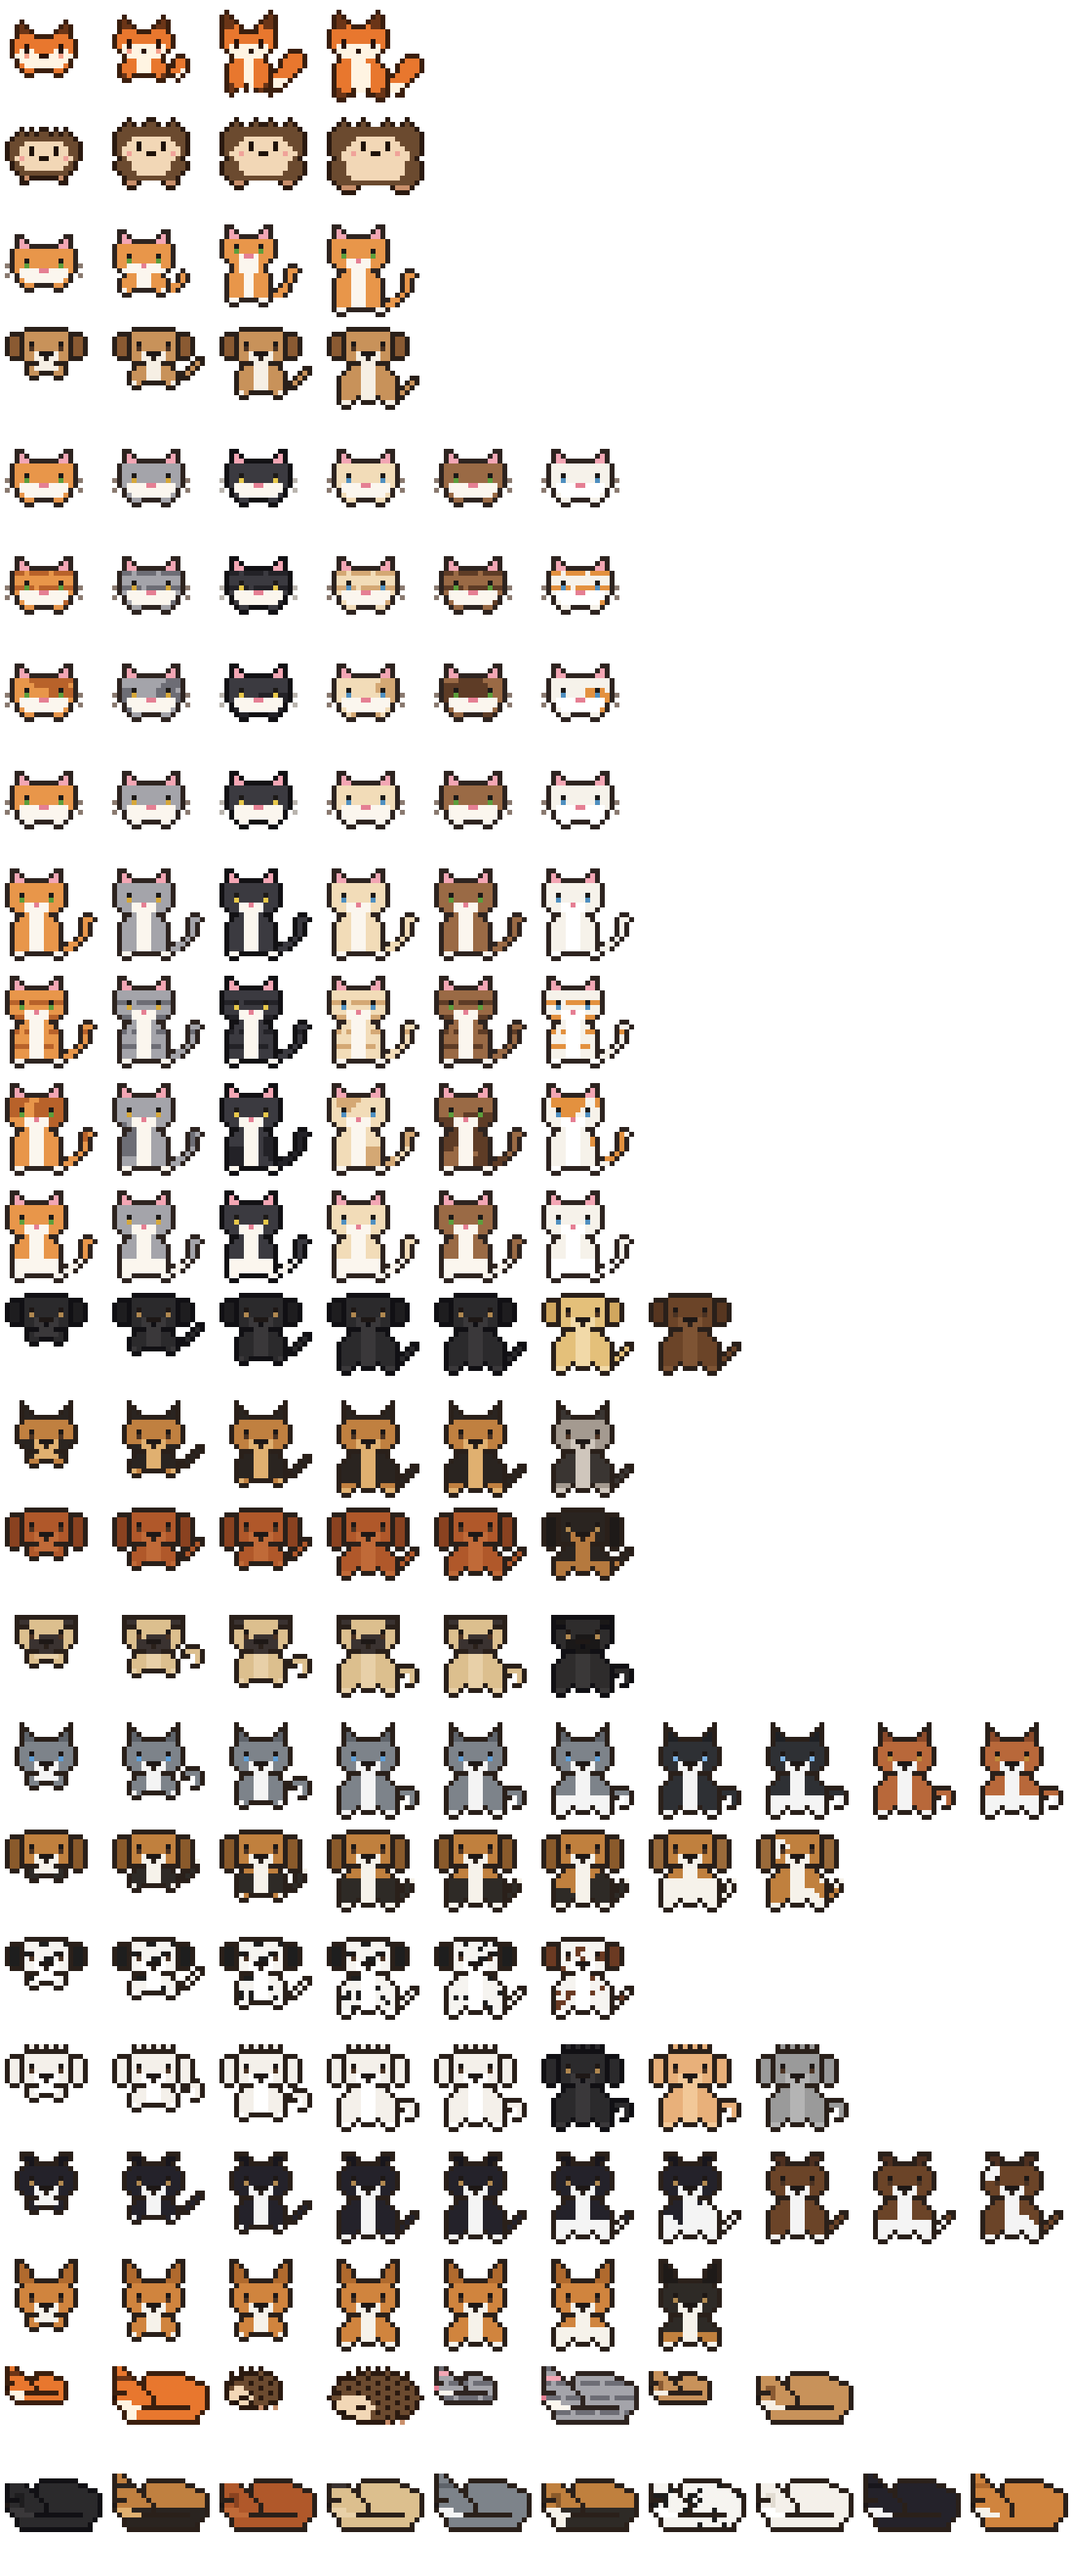
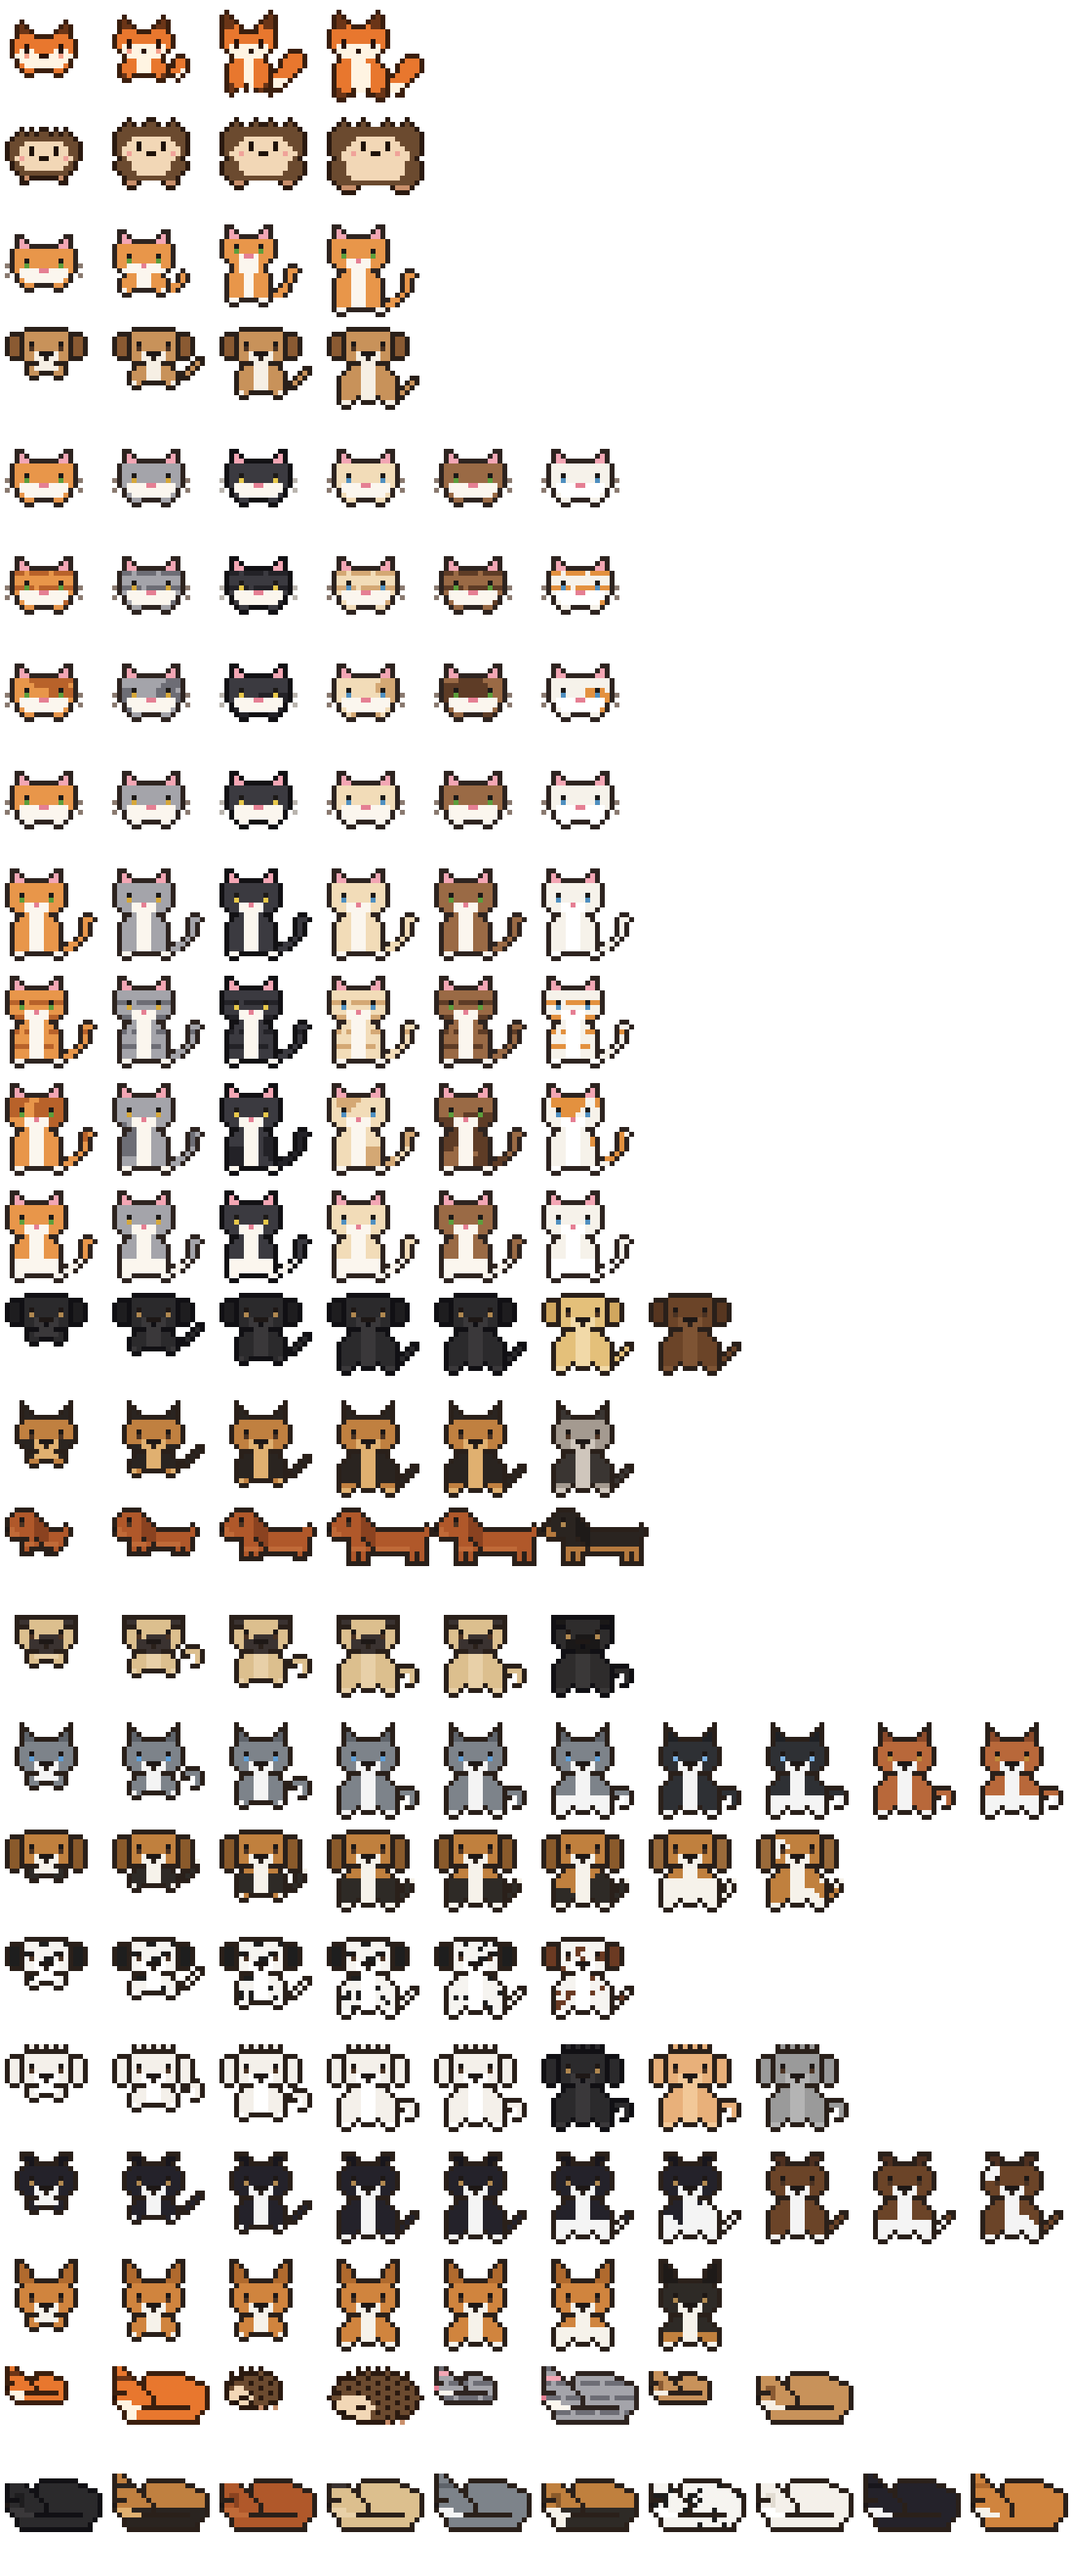
Größeres Layout, kompaktes HUD (Sättigung links, Laune rechts), Dackel in Seitenansicht, Ball für Hund, Napf weiter rechts

Changed region(s): [[0.0, 0.5625, 0.6212, 0.625]]

diff --git a/src/render/scene.ts b/src/render/scene.ts
@@ -38,7 +38,7 @@ const BASKET_FRONT = [
 ];
 
 // Futternapf neben der Pflanze
-const BOWL_X = 12;
+const BOWL_X = 15;
 const BOWL_Y = FLOOR_Y + 2;
 const BOWL = ['.ooooooo.', 'ohhhhhhho', '.obbbbbo.', '..ooooo..'];
 const FOOD_LEVELS = [
@@ -82,6 +82,10 @@ const POST = [
   'ooooooooooo',
 ];
 const POST_COLORS: ColorMap = { o: '#4a3a30', m: '#b9a58a', r: '#d8c08e', R: '#b89a62', l: '#5a4a40', y: '#e2384d' };
+
+// Tennisball (Hund)
+const BALL = ['.ooo.', 'oyyso', 'oysyo', 'osyyo', '.ooo.'];
+const BALL_COLORS: ColorMap = { o: '#5a6a1a', y: '#d8e84a', s: '#f6f6e4' };
 
 // Grasbüschel (Fuchs) und Herbstlaub (Igel)
 const TUFT = ['l.l.l', '.lgl.', 'ggggg'];
@@ -227,38 +231,48 @@ export class Scene {
     this.drawHud(p, t);
   }
 
-  /** HUD oben im Bild wie in einem Videospiel: Sättigung, Laune, Warnsymbole */
+  /** HUD oben im Bild wie in einem Videospiel: Sättigung links, Laune rechts, Warnsymbole in der Mitte */
   private drawHud(p: Pet, t: number) {
     const ctx = this.ctx;
-    ctx.fillStyle = 'rgba(20,16,12,0.45)';
-    ctx.fillRect(0, 0, SCREEN_W, 9);
+    const BAR_W = 13;
     if (p.stage !== 'egg') {
-      drawMap(ctx, HUD_FOOD, HUD_ICON_COLORS, 1, 2);
-      this.drawBar(7, 2, hearts(p.hunger), '#f2a23a', t);
-      drawMap(ctx, HUD_SMILE, HUD_ICON_COLORS, 26, 2);
-      this.drawBar(32, 2, hearts(p.happy), '#f2d64b', t);
+      ctx.fillStyle = 'rgba(20,16,12,0.4)';
+      ctx.fillRect(0, 0, 20, 7);
+      ctx.fillRect(SCREEN_W - 20, 0, 20, 7);
+      drawMap(ctx, HUD_FOOD, HUD_ICON_COLORS, 1, 1);
+      this.drawBar(6, 1, hearts(p.hunger), '#f2a23a', t);
+      this.drawBar(SCREEN_W - 1 - BAR_W, 1, hearts(p.happy), '#f2d64b', t);
+      drawMap(ctx, HUD_SMILE, HUD_ICON_COLORS, SCREEN_W - 2 - BAR_W - 5, 1);
     }
-    // rechts: krank / ruft
-    let ix = SCREEN_W - 3;
-    if (Object.keys(p.calls).length > 0 && Math.floor(t / 500) % 2 === 0) {
-      ix -= 2;
-      drawMap(ctx, ICONS.bang.map, ICONS.bang.colors, ix, 2);
-    } else if (Object.keys(p.calls).length > 0) ix -= 2;
-    if (p.sick) drawMap(ctx, ICONS.skull.map, ICONS.skull.colors, ix - 7, 2);
+    // Mitte: krank / ruft
+    const calling = Object.keys(p.calls).length > 0;
+    const icons: { map: string[]; colors: ColorMap }[] = [];
+    if (p.sick) icons.push(ICONS.skull);
+    if (calling && Math.floor(t / 500) % 2 === 0) icons.push(ICONS.bang);
+    const width = (p.sick ? 5 : 0) + (calling ? 2 : 0) + (p.sick && calling ? 2 : 0);
+    let x = Math.round(SCREEN_W / 2 - width / 2);
+    if (width) {
+      ctx.fillStyle = 'rgba(20,16,12,0.4)';
+      ctx.fillRect(x - 2, 0, width + 4, 7);
+    }
+    for (const icon of icons) {
+      drawMap(ctx, icon.map, icon.colors, x, 1);
+      x += icon.map[0].length + 2;
+    }
   }
 
-  /** Leiste mit 4 Segmenten; bei 0–1 Segment rot blinkend */
+  /** schmale Leiste mit 4 Segmenten; bei 0–1 Segment rot blinkend */
   private drawBar(x: number, y: number, filled: number, color: string, t: number) {
     const ctx = this.ctx;
     const low = filled <= 1 && Math.floor(t / 400) % 2 === 0;
     ctx.fillStyle = '#1a140e';
-    ctx.fillRect(x, y, 4 * 4 + 1, 5);
+    ctx.fillRect(x, y, 13, 5);
     for (let i = 0; i < 4; i++) {
       ctx.fillStyle = i < filled ? (low ? '#e2384d' : color) : '#4a4038';
-      ctx.fillRect(x + 1 + i * 4, y + 1, 3, 3);
+      ctx.fillRect(x + 1 + i * 3, y + 1, 2, 3);
       if (i < filled) {
         ctx.fillStyle = 'rgba(255,255,255,0.45)';
-        ctx.fillRect(x + 1 + i * 4, y + 1, 3, 1);
+        ctx.fillRect(x + 1 + i * 3, y + 1, 2, 1);
       }
     }
   }
@@ -338,6 +352,7 @@ export class Scene {
     if (room.floor === 'leaves') {
       for (const [x, y, c, shape] of LEAVES) drawMap(ctx, LEAF_SHAPES[shape], { x: LEAF_COLORS[c] }, x, y);
     }
+    if (room.ball) drawMap(ctx, BALL, BALL_COLORS, 6, FLOOR_Y + 2);
     if (room.scratchingPost) {
       const top = FLOOR_Y + 1 - POST.length;
       drawMap(ctx, POST, POST_COLORS, POST_X, top);
@@ -358,7 +373,7 @@ export class Scene {
     const cleaning = t < this.cleaningUntil;
     p.poops.slice(0, 6).forEach((_, i) => {
       // zwischen Pflanze und Körbchen, 3 nebeneinander, dann eine zweite Reihe
-      const x = 23 + (i % 3) * 4 + (Math.floor(i / 3) % 2) * 2 + (cleaning ? (this.cleaningUntil - t) / 20 : 0);
+      const x = 26 + (i % 3) * 4 + (Math.floor(i / 3) % 2) * 2 + (cleaning ? (this.cleaningUntil - t) / 20 : 0);
       const y = FLOOR_Y + 1 - Math.floor(i / 3) * 2 + (i % 2);
       drawMap(ctx, ICONS.poop.map, ICONS.poop.colors, x, y);
       if (!cleaning) {

diff --git a/src/species/dog.ts b/src/species/dog.ts
@@ -15,6 +15,60 @@ function shape(d: DogShape) {
   return { sprites: buildDogSprites(d), sleep: sleepOf(d) };
 }
 
+const DACKEL = {
+  baby: [
+    '..oooo........',
+    '.oaaaao.......',
+    'oaaEaaco......',
+    'oaaeaacco...o.',
+    'nbaaaacccoooao',
+    'obbaaacccaaaao',
+    '.ooooaoccaaao.',
+    '...obbaobbbao.',
+    '...oaoooooao..',
+    '...ooo..ooo...',
+  ],
+  child: [
+    '..oooo............',
+    '.oaaaao...........',
+    'oaaEaaco..........',
+    'oaaeaacco.......o.',
+    'nbaaaacccoooooooao',
+    'obbaaacccaaaaaaaao',
+    '.oooaaoccaaaaaaao.',
+    '...obbbaobbbbbaao.',
+    '...oaoaooooooaoao.',
+    '...ooooo....oooo..',
+  ],
+  teen: [
+    '...oooo.............',
+    '..oaaaao............',
+    '.oaaEaaco...........',
+    'oaaaeaacco........o.',
+    'nbaaaaacccoooooooaao',
+    'obbaaaacccaaaaaaaaao',
+    '.ooooaaoccaaaaaaaao.',
+    '....oaaaocaaaaaaaao.',
+    '....obbbaobbbbbbbao.',
+    '....oaoaooooooooaoo.',
+    '....ooooo......ooo..',
+  ],
+  adult: [
+    '...oooo...............',
+    '..oaaaao..............',
+    '.oaaEaaco.............',
+    'oaaaeaacco..........o.',
+    'nbaaaaacccooooooooooao',
+    'obbaaaacccaaaaaaaaaaao',
+    '.ooooaaoccaaaaaaaaaao.',
+    '....oaaaocaaaaaaaaaao.',
+    '....obbbaobbbbbbbaaao.',
+    '....oaoaoooooooooaoao.',
+    '....oaoao.......oaoao.',
+    '....ooooo.......ooooo.',
+  ],
+};
+
 export const DOG_BREEDS: Breed[] = [
   {
     name: 'Labrador',
@@ -38,7 +92,9 @@ export const DOG_BREEDS: Breed[] = [
   },
   {
     name: 'Dackel',
+    // eigene, handgezeichnete Seitenansicht: langer, niedriger Körper, kurze Beine
     ...shape({ ears: 'floppyLong', tail: 'straight', short: true }),
+    sprites: DACKEL,
     coats: [
       { name: 'Rot', colors: { a: '#b0582a', c: '#8a4220', b: '#c06a38' } },
       { name: 'Schwarz-Braun', colors: { a: '#2a2420', c: '#1e1a18', b: '#b5793e', d: '#b5793e', ...DARK_EYES }, patterns: ['points'] },
@@ -142,7 +198,7 @@ export const dog: SpeciesDef = {
   },
   // Standard-Gewichte (Labrador); je Rasse wird über breeds[].adultGrams gerechnet
   weightGrams: { baby: 450, child: 6000, teen: 20000, adult: 30000 },
-  room: {},
+  room: { ball: true },
   breeds: DOG_BREEDS,
   egg: { shell: '#f6efe4', spots: '#c8925a' },
   sprites: DOG_BREEDS[0].sprites,

diff --git a/src/style.css b/src/style.css
@@ -33,9 +33,34 @@ body {
   padding: max(16px, env(safe-area-inset-top)) 16px max(16px, env(safe-area-inset-bottom));
 }
 
+/* Gerät so groß wie möglich: Breite richtet sich nach der Bildschirmhöhe
+   (Bild 4:3 + ca. 340 px für Leisten, Meldung und Knöpfe) */
 #app {
   width: 100%;
-  max-width: 440px;
+  max-width: max(360px, min(1000px, calc((100dvh - 480px) * 4 / 3)));
+  container-type: inline-size;
+}
+
+/* Schrift und Knöpfe wachsen mit dem Gerät mit */
+.act {
+  font-size: clamp(12px, 2.2cqw, 18px) !important;
+  padding: clamp(8px, 1.6cqw, 16px) 2px !important;
+}
+.act .ico {
+  font-size: clamp(22px, 4.4cqw, 40px);
+}
+.msg {
+  font-size: clamp(15px, 2.6cqw, 22px) !important;
+}
+.hud {
+  font-size: clamp(14px, 2.2cqw, 19px) !important;
+}
+.pet-tab {
+  font-size: clamp(13px, 2cqw, 17px) !important;
+}
+.tab-pic {
+  width: clamp(28px, 4.5cqw, 40px) !important;
+  height: clamp(28px, 4.5cqw, 40px) !important;
 }
 
 .device {
@@ -607,4 +632,19 @@ summary {
   .tab-dot {
     animation: none;
   }
+}
+
+/* Gerät füllt die volle Bildschirmhöhe; übriger Platz geht an die Meldungszeile */
+.device {
+  min-height: calc(100dvh - max(16px, env(safe-area-inset-top)) - max(16px, env(safe-area-inset-bottom)));
+}
+.device .msg {
+  flex: 1 1 auto;
+}
+.device .actions {
+  flex: none;
+  grid-auto-rows: clamp(64px, 10dvh, 110px);
+}
+.device .act {
+  justify-content: center;
 }

diff --git a/scripts/preview.ts b/scripts/preview.ts
@@ -30,7 +30,8 @@ dog.breeds!.forEach((b, breed) => {
 rows.push(Object.keys(SPECIES).flatMap((id) => (['child', 'adult'] as Stage[]).map((stage) => ({ sp: id, stage, sleeping: true, look: id === 'cat' ? { coat: 1, pattern: 'tabby', seed: 3 } : null }))));
 rows.push(SPECIES.dog.breeds!.map((b, breed) => ({ sp: 'dog', stage: 'adult' as Stage, sleeping: true, look: { breed, coat: 0, pattern: (b.coats[0].patterns ?? b.patterns ?? ['solid'])[0], seed: 5 } })));
 const only = process.argv[3];
-if (only === 'sleep') rows.splice(0, rows.length, ...rows.filter((r) => r[0].sleeping));
+if (only === 'dackel') rows.splice(0, rows.length, ...rows.filter((r) => r[0].sp === 'dog' && r[0].look?.breed === 2));
+else if (only === 'sleep') rows.splice(0, rows.length, ...rows.filter((r) => r[0].sleeping));
 else if (only) rows.splice(0, rows.length, ...rows.filter((r) => r[0].sp === only));
 const cols = Math.max(...rows.map((r) => r.length));
 const W = cols * CELL * S, H = rows.length * CELL * S;

diff --git a/src/species/types.ts b/src/species/types.ts
@@ -55,7 +55,7 @@ export interface SpeciesDef {
   /** Schlafpose (eingerollt) */
   sleep: SleepShape;
   /** Deko im Raum passend zur Art */
-  room?: { scene?: 'room' | 'forest' | 'garden'; floor?: 'grass' | 'leaves'; scratchingPost?: boolean };
+  room?: { scene?: 'room' | 'forest' | 'garden'; floor?: 'grass' | 'leaves'; scratchingPost?: boolean; ball?: boolean };
   /** optional: zufällige Fellfarbe + Muster pro Tier */
   coats?: Coat[];
   patterns?: Pattern[];

diff --git a/SPEC.md b/SPEC.md
@@ -37,7 +37,7 @@ Abschnitte mit **(ergänzt)** stammen nicht aus der ursprünglichen Anforderung,
 
 Den Status kann man jederzeit über einen eigenen Statusbildschirm ansehen.
 
-**HUD:** Sättigung und Laune stehen wie in einem Videospiel **oben im Spielbild** als Leisten mit je **4 Segmenten** (links ein Keulen-Symbol für Sättigung, daneben ein Smiley für Laune). Ist nur noch ein Segment voll, wird die Leiste rot und blinkt. Rechts im HUD stehen die Warnsymbole (Totenkopf bei Krankheit, Ausrufezeichen beim Rufen). Das HUD bleibt auch nachts und bei Licht aus hell.
+**HUD:** Sättigung und Laune stehen wie in einem Videospiel **oben im Spielbild** als schmale Leisten mit je **4 Segmenten**: **Sättigung links oben** (Keulen-Symbol), **Laune rechts oben** (Smiley). Ist nur noch ein Segment voll, wird die Leiste rot und blinkt. Die Warnsymbole (Totenkopf bei Krankheit, Ausrufezeichen beim Rufen) stehen oben in der Mitte. Alle HUD-Elemente haben einen kleinen dunklen Hintergrund. Das HUD bleibt auch nachts und bei Licht aus hell.
 
 ## 4. Lebenszyklus
 
@@ -69,7 +69,7 @@ Den Status kann man jederzeit über einen eigenen Statusbildschirm ansehen.
   |---|---|---|---|---|
   | Labrador | Schlappohren | Schwarz, Blond, Schoko | einfarbig | 30 kg |
   | Schäferhund | Stehohren | Schwarz-Braun, Grau | Sattel | 32 kg |
-  | Dackel | lange Schlappohren, kurze Beine | Rot, Schwarz-Braun | einfarbig / Abzeichen | 9 kg |
+  | Dackel | eigene Seitenansicht: langer, niedriger Körper, kurze Beine, lange Schnauze, Schlappohr | Rot, Schwarz-Braun | einfarbig / Abzeichen | 9 kg |
   | Mops | kleine Ohren, dunkle platte Schnauze, Ringelschwanz | Beige, Schwarz | einfarbig | 7 kg |
   | Husky | Stehohren, Ringelschwanz, blaue Augen | Grau-, Schwarz-, Rot-Weiß | einfarbig / weiße Pfoten | 23 kg |
   | Beagle | lange Schlappohren, weiße Schwanzspitze | Dreifarbig, Zweifarbig | Sattel / gefleckt | 12 kg |
@@ -185,6 +185,8 @@ Bei einem Ei werden die Parameter ignoriert.
 
 ## 8. UI
 
+**Größe:** Das Gerät nutzt den Bildschirm aus. Die Breite richtet sich nach der Bildschirmhöhe (bis 1000 px), und das Gerät füllt die volle Höhe. Schrift, Knöpfe und Tier-Leiste wachsen mit. Am Handy füllt es die ganze Breite und Höhe.
+
 Die Hauptansicht zeigt das Tier in seinem Zuhause, die Haufen und alle Statussymbole (Schlaf, Krankheit, Rufen). Darunter liegt eine Aktionsleiste mit:
 
 | Aktion | Funktion |
@@ -205,7 +207,7 @@ Gesperrte Aktionen, zum Beispiel Füttern während des Schlafs, sind ausgegraut.
 - **Igel:** lebt draußen **im Garten**: Hecke, Holzzaun, Busch mit Beeren, Blumen, Rasen mit Herbstlaub. Er schläft in einem **Laubhaufen**. Gefüttert wird aus einem Tonschälchen.
 - Schlafplätze sind innen hell genug und verdecken nur den unteren Rand, damit man das schlafende Tier **gut erkennt**. Licht aus dunkelt das Bild nur so weit ab, dass das Tier sichtbar bleibt. Nachts ist draußen der Hintergrund zusätzlich dunkler.
 
-**Einrichtung (Katze, drinnen):** Das **Körbchen** steht rechts unter dem Fenster. Es ist ein geflochtener Weidenkorb mit geflochtenem Rand, nach unten schmaler werdend und mit Kissen. Das Ei liegt darin, und zum Schlafen legt sich das Tier hinein. Wach läuft es im Raum herum. Neben der Pflanze steht ein **Futternapf**. Die Haufen landen zwischen Napf und Körbchen.
+**Einrichtung (Katze, drinnen):** Das **Körbchen** steht rechts unter dem Fenster. Es ist ein geflochtener Weidenkorb mit geflochtenem Rand, nach unten schmaler werdend und mit Kissen. Das Ei liegt darin, und zum Schlafen legt sich das Tier hinein. Wach läuft es im Raum herum. Links im Raum steht ein **Futternapf** (bzw. Stein/Tonschale draußen). Die Haufen landen zwischen Napf und Körbchen.
 
 **Fenster:** An der Wand hängt ein großes Fenster, durch das man die echte Tageszeit sieht:
 - Die **Sonne** wandert zwischen 7 und 20 Uhr im Bogen durchs Fenster. Sie geht links unten auf, steht mittags oben und geht rechts unten unter.
@@ -215,6 +217,7 @@ Gesperrte Aktionen, zum Beispiel Füttern während des Schlafs, sind ausgegraut.
 **Deko je Tierart:** Sie ist als Daten in der Tierart angelegt (`room`).
 - **Fuchs:** Grasbüschel und Grashalme auf dem Boden.
 - **Igel:** buntes Herbstlaub auf dem Boden (orange, rot, gelb, braun).
+- **Hund:** auf dem Boden liegt ein Tennisball.
 - **Katze:** links im Zimmer (etwas vom Rand entfernt) steht ein Kratzbaum mit Sisalstamm und zwei Liegeflächen; oben hängt ein Spielball an einer Schnur und pendelt. Eine Zimmerpflanze gibt es nicht mehr.
 
 **Animationen:**
